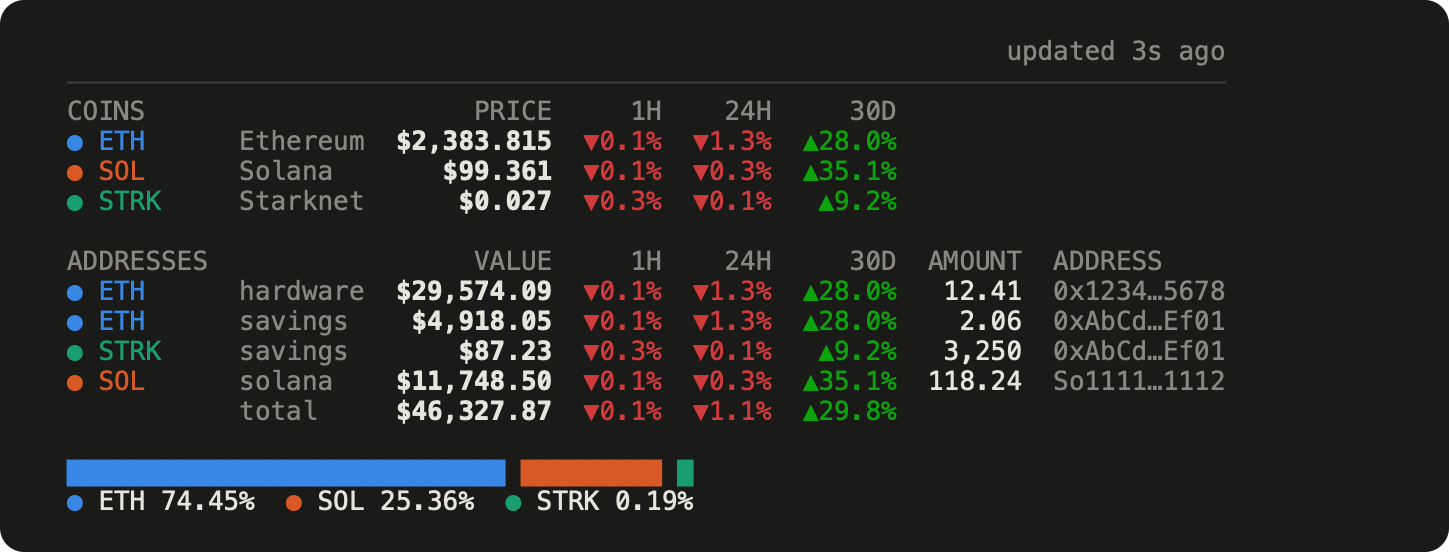
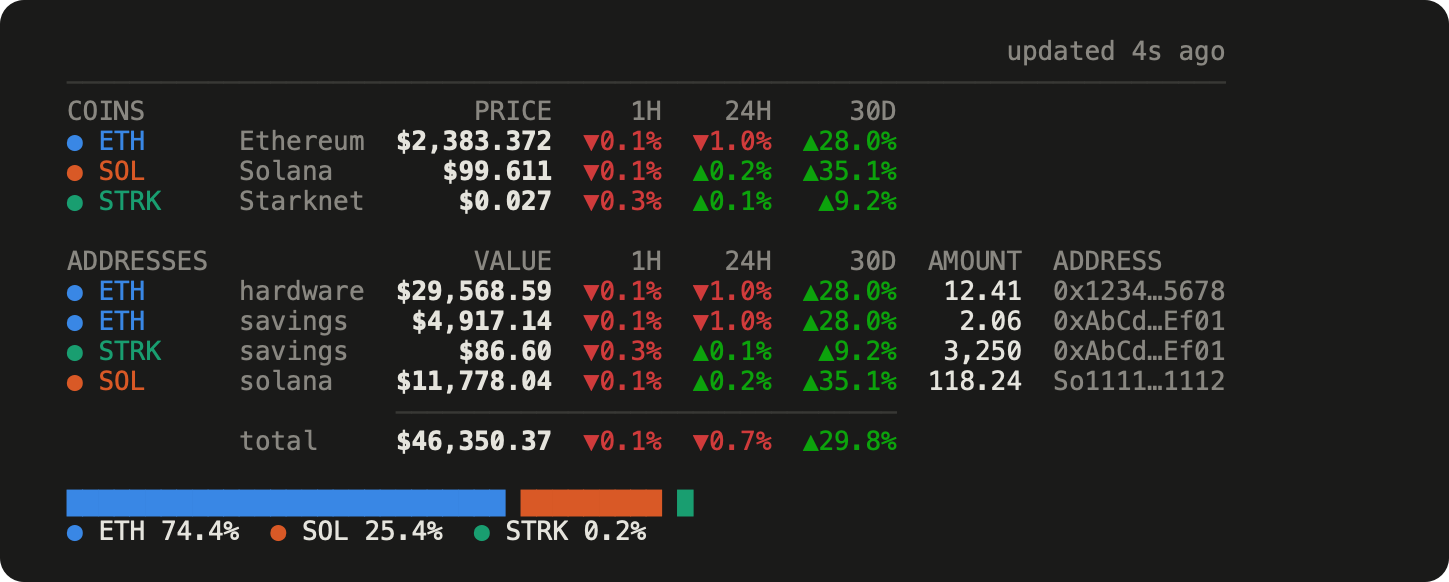
Rule off the figures the balance total adds up
The total was the last of several identical rows — same columns, same weight, a
blank where a coin's chip goes — so the number most worth seeing was the easiest
to skim past. A hairline above it, in the grey the header rule and the plot rails
already use, marks it without making it louder.

It spans exactly what is being summed: from the money column to the last change
column, stopping before AMOUNT and ADDRESS, which are not summed. That is also
why it is a rule rather than a blank line or a brighter word — it says which
figures the total is of.

The gap between columns becomes a constant, since the rule has to cross exactly
the gaps the columns leave, and the span is its own function so the arithmetic
can be tested away from the rendering. Five of the twenty-nine golden screens
change, each by exactly one added line; the ones too narrow to show an addresses
group have no total to rule, and are untouched.

diff --git a/src/render/table.rs b/src/render/table.rs
@@ -15,6 +15,10 @@ enum Align {
     Right,
 }
 
+/// The gap between one column and the next. Shared, because the rule under a
+/// totals row has to cross exactly the gaps the columns leave.
+const GAP: usize = 2;
+
 #[derive(Debug, Clone)]
 enum Cell {
     Plain(String),
@@ -63,6 +67,15 @@ struct Column {
 /// own: a plot for the coins, an amount and an address for the holdings. Those
 /// are different data, so forcing them into one shared column only produced a
 /// hole in whichever group was not using it.
+/// A hairline over the columns a totals row adds up, drawn before `before_row`
+/// and starting at `from_column` — so it covers the money and the changes, and
+/// stops before the columns that are not summed.
+#[derive(Clone, Copy)]
+struct Rule {
+    before_row: usize,
+    from_column: usize,
+}
+
 struct Section {
     /// Labels for the shared columns.
     header: Vec<String>,
@@ -74,6 +87,8 @@ struct Section {
     tail_align: Vec<Align>,
     /// One entry per row, each the same length as `tail_header`.
     tail_rows: Vec<Vec<Cell>>,
+    /// Set only where a row sums the rows above it.
+    rule: Option<Rule>,
 }
 
 /// Narrowest plot worth drawing, and the point past which a wider one stops
@@ -107,7 +122,7 @@ pub fn table(snap: &Snapshot, cfg: &Config, theme: &Theme, width: usize) -> Rend
                 // left on *their* line — the address columns no longer compete
                 // for the same space.
                 let plot = if cfg.inline_plot && snap.show_coins {
-                    width.saturating_sub(m.coins + 2).min(MAX_PLOT)
+                    width.saturating_sub(m.coins + GAP).min(MAX_PLOT)
                 } else {
                     0
                 };
@@ -146,14 +161,14 @@ struct Measured {
 fn measure(snap: &Snapshot, cfg: &Config, style: Style) -> Measured {
     let (columns, sections) = build(snap, cfg, style, 0);
     let shared = widths(&columns, &sections);
-    let prefix: usize = shared.iter().sum::<usize>() + 2 * shared.len().saturating_sub(1);
+    let prefix: usize = shared.iter().sum::<usize>() + GAP * shared.len().saturating_sub(1);
     let mut widest = 0;
     let mut coins = 0;
     for (i, section) in sections.iter().enumerate() {
         let tail = tail_widths(section);
         let mut total = prefix;
         for w in &tail {
-            total += 2 + w;
+            total += GAP + w;
         }
         if i == 0 {
             coins = total;
@@ -277,6 +292,8 @@ fn coins_section(
         tail_header,
         tail_align,
         tail_rows,
+        // Nothing in the coins group sums the rows above it.
+        rule: None,
     }
 }
 
@@ -343,11 +360,19 @@ fn holdings_section(
     // would need its own header to label the change columns, and a row sitting
     // directly under the ones it adds up is already labelled by them. A single
     // holding is its own total, so it gets no summary.
+    let mut rule = None;
     if rows.len() > 1 {
         let total: f64 = holdings
             .iter()
             .map(|(_, id, amount)| amount * price_of(id))
             .sum();
+        // Set here rather than after the fact, so the rule cannot outlive the
+        // row it belongs to: the money column is where the total's own figure
+        // goes, two columns in when the labels have a column of their own.
+        rule = Some(Rule {
+            before_row: rows.len(),
+            from_column: if col_two { 2 } else { 1 },
+        });
         let mut cells = vec![Cell::Plain(String::new())];
         if col_two {
             // The coin column stays empty — a total belongs to no single coin —
@@ -372,6 +397,7 @@ fn holdings_section(
         tail_header: vec!["AMOUNT".into(), "ADDRESS".into()],
         tail_align: vec![Align::Right, Align::Left],
         tail_rows,
+        rule,
     })
 }
 
@@ -499,6 +525,15 @@ fn widths(columns: &[Column], sections: &[Section]) -> Vec<usize> {
         .collect()
 }
 
+/// Where a rule under the summed columns starts, and how far it runs: from the
+/// left edge of `from` to the right edge of the last shared column, crossing the
+/// two-space gaps between them on the way.
+fn rule_span(shared: &[usize], from: usize) -> (usize, usize) {
+    let start = shared[..from].iter().sum::<usize>() + GAP * from;
+    let len = shared[from..].iter().sum::<usize>() + GAP * (shared.len() - from - 1);
+    (start, len)
+}
+
 fn emit(
     columns: &[Column],
     sections: &[Section],
@@ -515,23 +550,33 @@ fn emit(
         let mut header = SLine::new();
         for (i, col) in columns.iter().enumerate() {
             if i > 0 {
-                header.spaces(2);
+                header.spaces(GAP);
             }
             let text = section.header.get(i).cloned().unwrap_or_default();
             let align = section.align.get(i).copied().flatten().unwrap_or(col.align);
             pad_cell(&mut header, &text, theme.dim(&text), shared[i], align);
         }
         for (i, text) in section.tail_header.iter().enumerate() {
-            header.spaces(2);
+            header.spaces(GAP);
             pad_cell(&mut header, text, theme.dim(text), tail[i], section.tail_align[i]);
         }
         out.push(header.finish().trim_end().to_string());
 
         for (r, row) in section.rows.iter().enumerate() {
+            // A hairline over the figures this row adds up, in the grey the
+            // header rule and the plot rails use: structure, not a divider.
+            if let Some(rule) = section.rule.filter(|x| x.before_row == r) {
+                let (start, len) = rule_span(shared, rule.from_column);
+                let bar = "─".repeat(len);
+                let mut line = SLine::new();
+                line.spaces(start);
+                line.styled(&bar, theme.paint(&bar, theme.axis()));
+                out.push(line.finish());
+            }
             let mut line = SLine::new();
             for (i, cell) in row.iter().enumerate() {
                 if i > 0 {
-                    line.spaces(2);
+                    line.spaces(GAP);
                 }
                 let align = section.align.get(i).copied().flatten().unwrap_or(columns[i].align);
                 let text = cell.text();
@@ -539,7 +584,7 @@ fn emit(
             }
             if let Some(cells) = section.tail_rows.get(r) {
                 for (i, cell) in cells.iter().enumerate() {
-                    line.spaces(2);
+                    line.spaces(GAP);
                     let text = cell.text();
                     pad_cell(&mut line, &text, cell.paint(theme), tail[i], section.tail_align[i]);
                 }
@@ -559,5 +604,29 @@ fn pad_cell(line: &mut SLine, text: &str, painted: String, width: usize, align: 
     line.styled(text, painted);
     if align == Align::Left {
         line.spaces(pad);
+    }
+}
+
+#[cfg(test)]
+mod tests {
+    use super::*;
+
+    #[test]
+    fn a_rule_covers_the_summed_columns_and_no_others() {
+        // chip, label, money, and three change columns.
+        let shared = [6, 11, 11, 6, 6, 7];
+        let (start, len) = rule_span(&shared, 2);
+        // It begins where the money column begins: two columns and their gaps in.
+        assert_eq!(start, 6 + 11 + GAP * 2);
+        // And ends with the last change column, gaps between them included.
+        assert_eq!(start + len, shared.iter().sum::<usize>() + GAP * (shared.len() - 1));
+    }
+
+    #[test]
+    fn a_table_without_a_name_column_starts_the_rule_one_column_earlier() {
+        let shared = [6, 11, 6, 6];
+        let (start, len) = rule_span(&shared, 1);
+        assert_eq!(start, 6 + GAP);
+        assert_eq!(start + len, shared.iter().sum::<usize>() + GAP * (shared.len() - 1));
     }
 }
